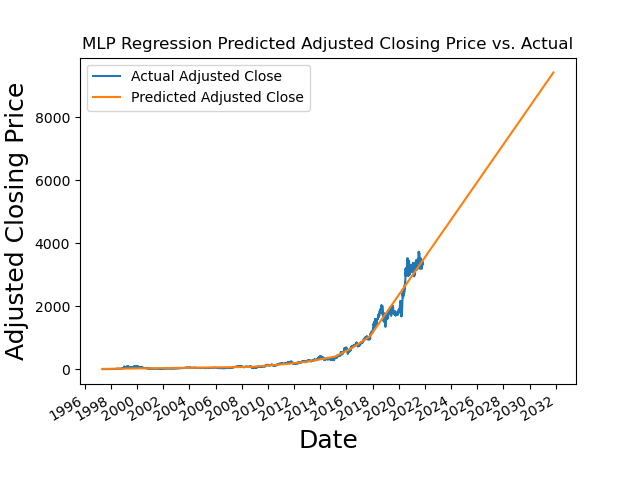
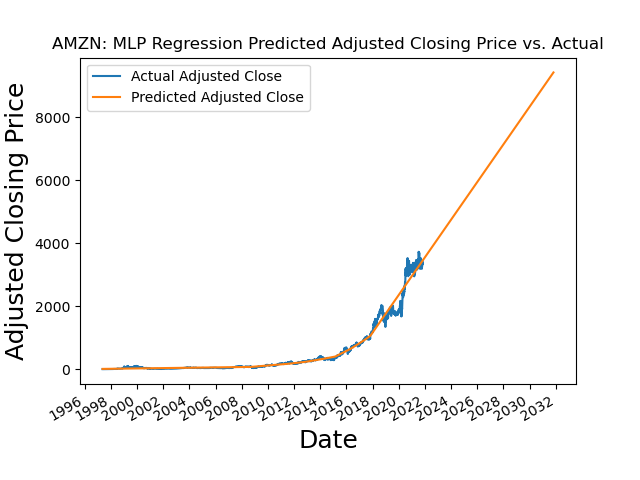
added stock name to MLP regression plot

Changed region(s): [[0.0625, 0.0625, 0.9375, 0.125]]

diff --git a/date_predictions.py b/date_predictions.py
@@ -70,7 +70,7 @@ def nn_regression(stock, df, X_train, X_test, y_train, y_test, X_every_day_dates
     plt.plot_date(X_every_day_dates, y_pred_every_day, label = "Predicted Adjusted Close", linestyle = "-", marker=None)
     plt.xlabel('Date', fontsize=18)
     plt.ylabel('Adjusted Closing Price', fontsize=18)
-    plt.title("MLP Regression Predicted Adjusted Closing Price vs. Actual")
+    plt.title(stock + ": MLP Regression Predicted Adjusted Closing Price vs. Actual")
     plt.legend()
     ax.xaxis.set_major_locator(years)
     ax.xaxis.set_major_formatter(years_fmt)
